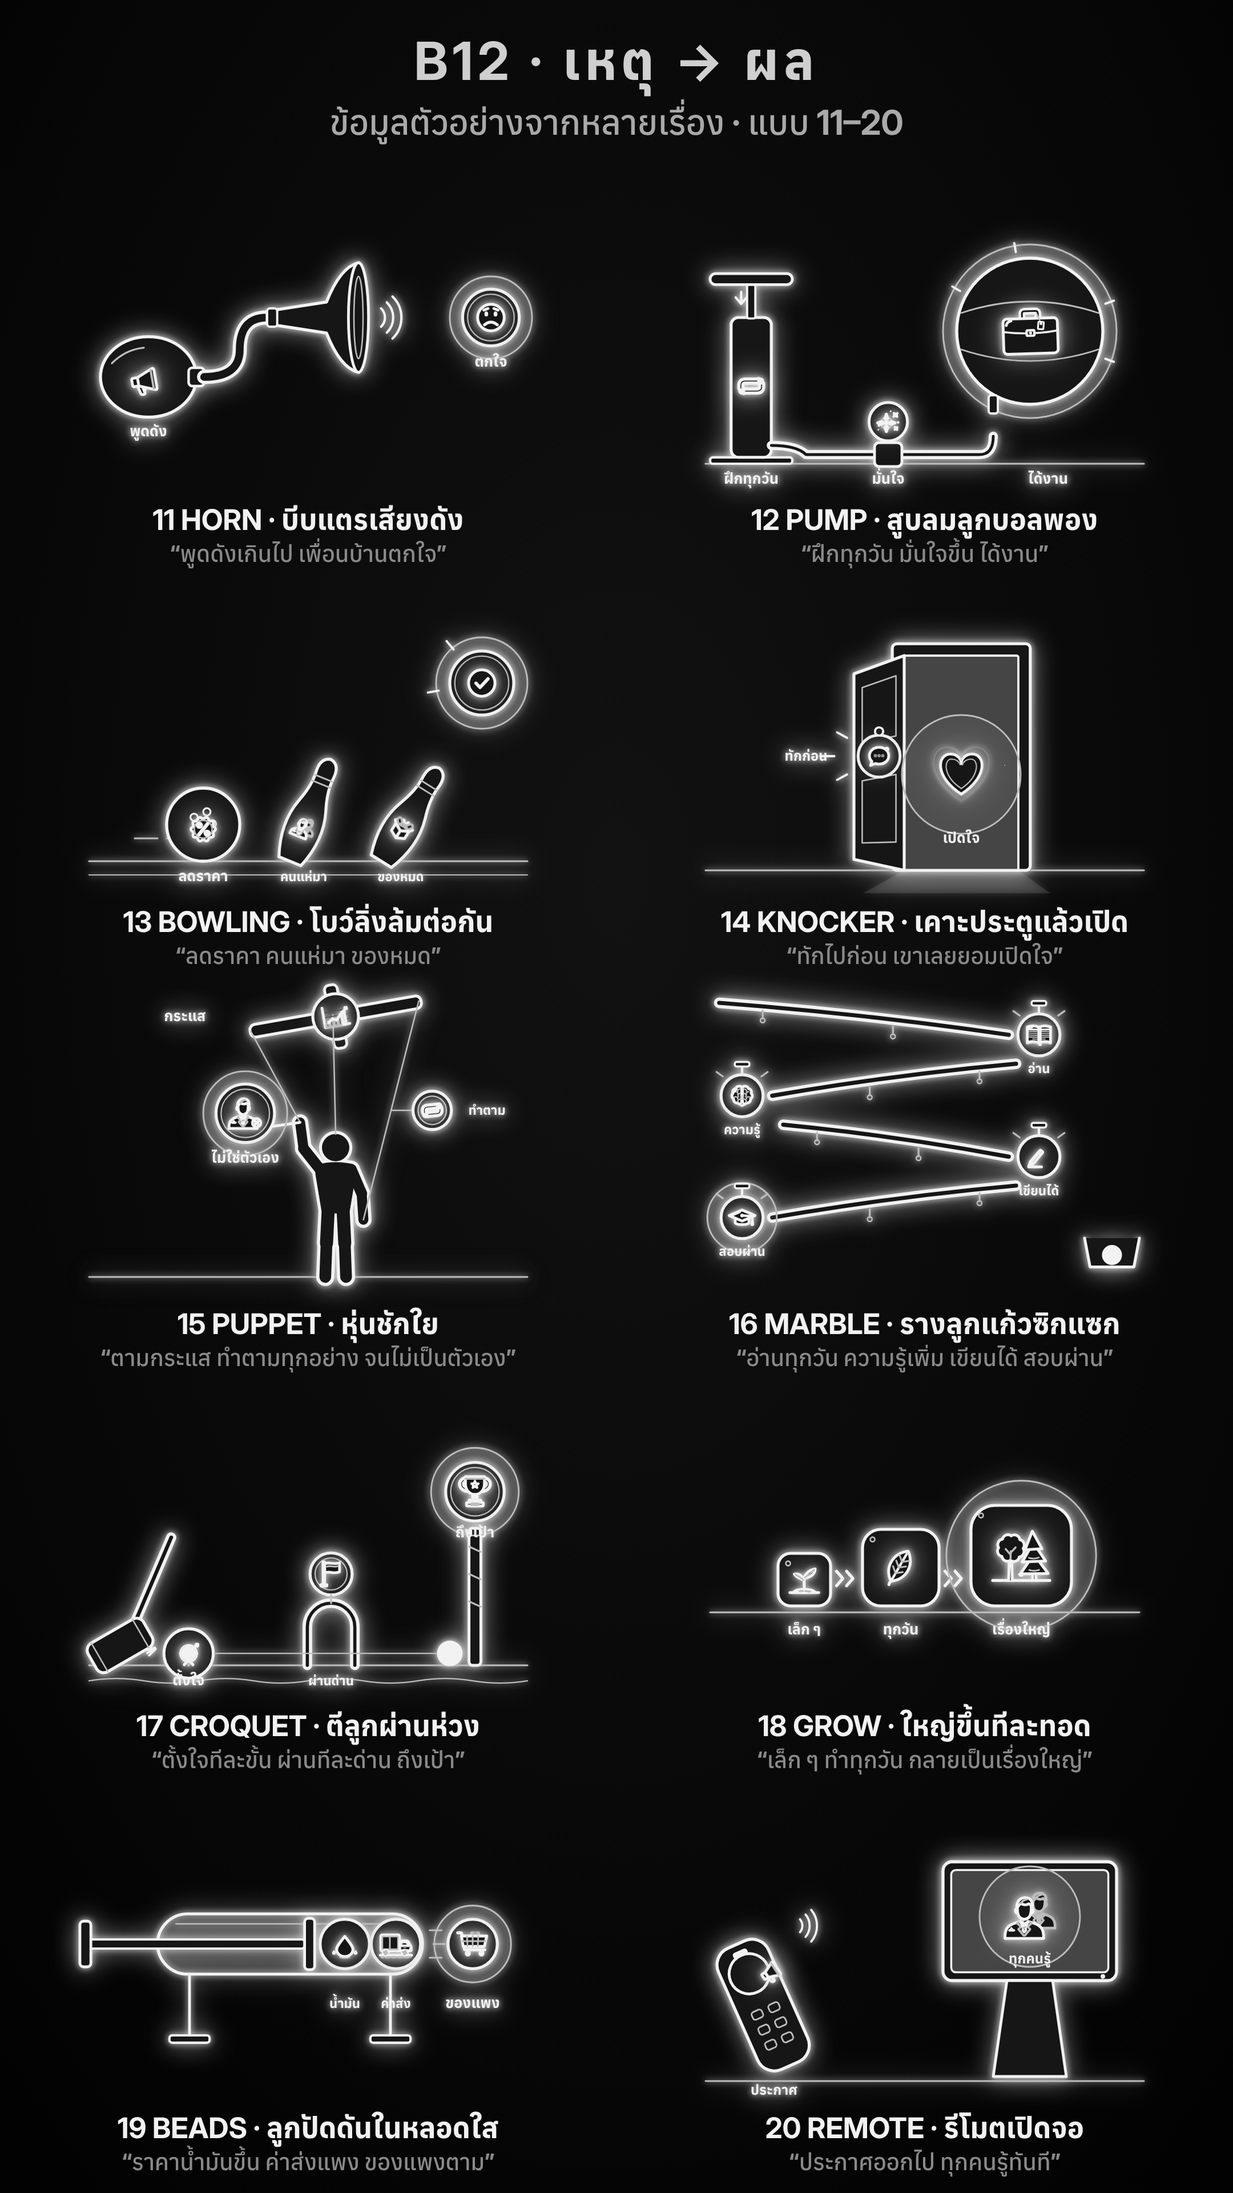
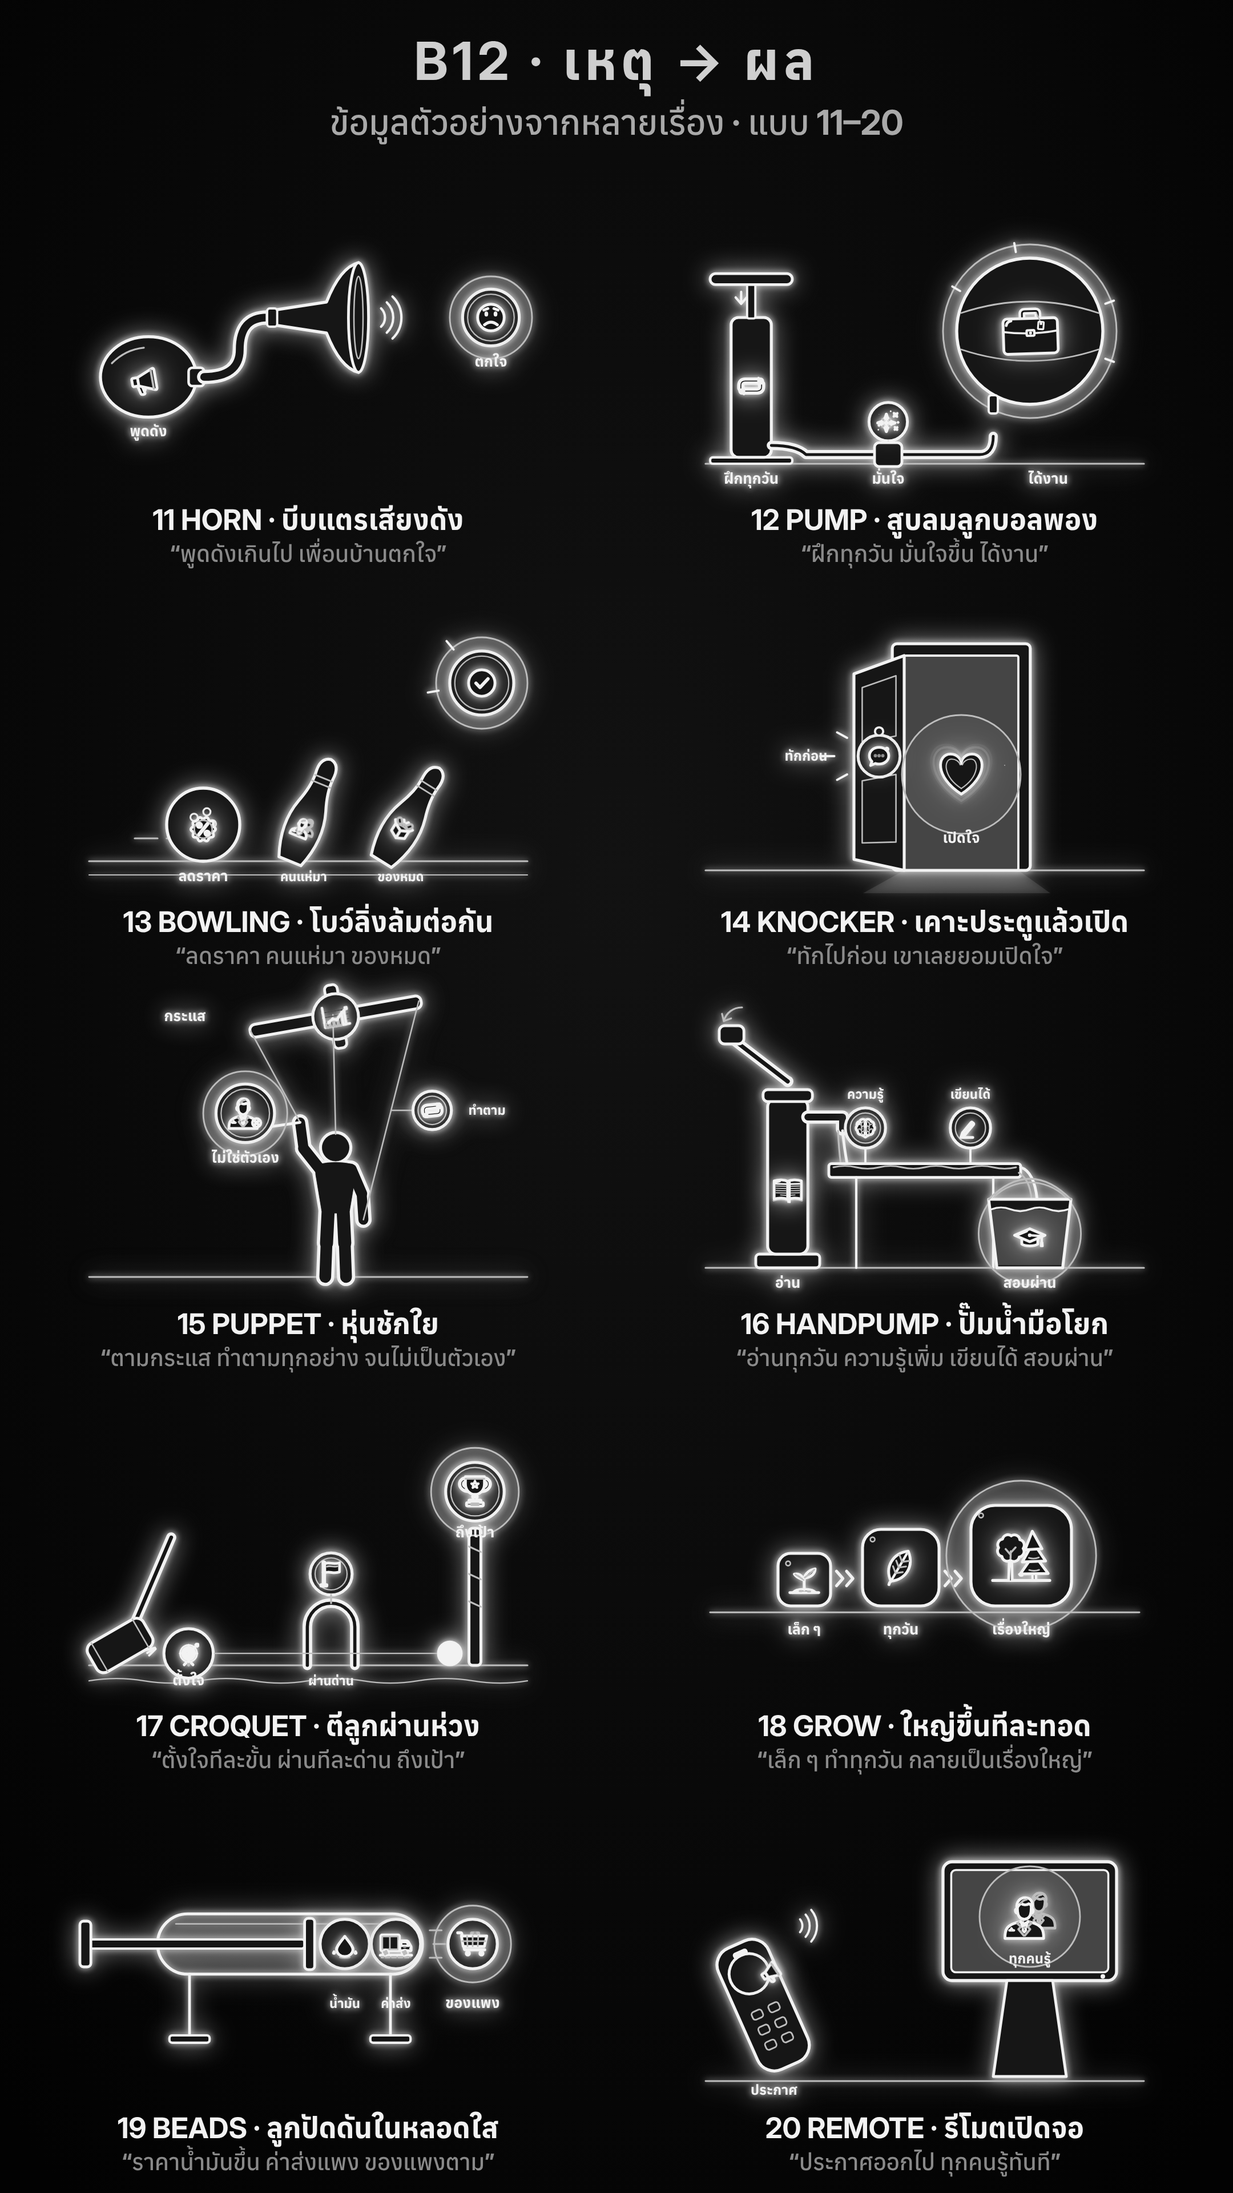
glow-line-motion: B12 design 16 = hand pump (user picked A); marble run and the options removed; stills A2/B2 + HANDOFF
Claude-Session: https://claude.ai/code/session_014abtgv8DZyaHiaAMtMie6j

Changed region(s): [[0.5583, 0.4375, 0.9306, 0.625]]

diff --git a/.claude/skills/glow-line-motion/examples/b12/b12.js b/.claude/skills/glow-line-motion/examples/b12/b12.js
@@ -349,16 +349,22 @@
       if (Q.F) { const ex = hand[0] - 120, ey = hand[1] - 20; p.line(hand[0], hand[1], ex + 50, ey + 30, W(3)); halo(p, ex, ey, 92); plate(p, c, Q.F, ex, ey, 64, ey + 108, { k: 6 }); }
     }); });
 
-  /* 16 ── MARBLE RUN: the marble rolls down rail after rail, ringing the plate at every turn, and lands in the cup */
-  variant('marble', 'รางลูกแก้วซิกแซก', (d, c) => { const Q = ch(d), n = Q.n, r = n > 3 ? 46 : 54, Y = spread(n, -230, 170);
-    art(c, p => { const D = Y.map((y, i) => [i % 2 ? -400 : 250, y]);
-      D.forEach(([x, y], i) => { const fromL = i % 2 === 0, x0 = fromL ? (i ? -310 : -450) : 200, x1 = fromL ? x - r - 20 : x + r + 20, y0 = y - 70; tube(p, `M ${x0} ${y0} Q ${(x0 + x1) / 2} ${y0 + 24} ${x1} ${y}`, 16);
-        [lerp(x0, x1, .15), lerp(x0, x1, .6)].forEach(sx => { const sy = lerp(y0, y, sx === lerp(x0, x1, .15) ? .12 : .62) + 8; p.line(sx, sy, sx, sy + 18, S(2)); p.circle(sx, sy + 22, 5, S(1.6)); }); });
-      D.forEach(([x, y], i) => { if (i === n - 1 && !Q.E) halo(p, x, y, r + 30); p.circle(x, y, r, F(3.4)); p.line(x, y - r, x, y - r - 20, W(2.6)); R(p, x - 16, y - r - 28, 32, 10, 4, F(2.2));
-        [-1, 1].forEach(sd => p.line(x + sd * (r - 4), y - r + 4, x + sd * (r + 10), y - r - 6, S(2)));
-        put(p, c, Q.K[i], x, y, r * 1.3, y + r + 38, { k: i, maxW: i % 2 ? 160 : 190, size: 28 }); });
-      p.path('M 350 215 L 362 278 L 458 278 L 470 215', F(3.2)); p.circle(410, 252, 20, SOLID());
-      effect(p, c, Q.E, 410, 105, 54, null); if (Q.E && Q.E.label && picOf(Q.E)) txt(atG(p, tu(.5)), Q.E.label, 410, 18, { maxW: 150, color: C.ink, weight: 700, size: 28 });
+  /* 16 ── HAND PUMP (user 2026-11-13 picked option A of the redesign; the marble run is gone): the handle (cause) is pumped, the water runs along the trough past each marker, and fills the bucket (effect) */
+  variant('handpump', 'ปั๊มน้ำมือโยก', (d, c) => { const Q = ch(d), fy = 280, px = -300;
+    art(c, p => { p.line(-480, fy, 480, fy, S(2));
+      R(p, px - 70, fy - 30, 140, 30, 8, F(3)); R(p, px - 44, -90, 88, fy - 30 + 90, 18, F(3.4)); R(p, px - 54, -110, 108, 26, 10, F(3));
+      tube(p, `M ${px + 44} -50 L ${px + 120} -50 L ${px + 120} -24`, 22); p.circle(px, -128, 10, F(2.4));
+      tube(p, `M ${px} -128 L ${px - 120} -220`, 16); R(p, px - 150, -250, 54, 40, 12, F(3)); p.path(`M ${px - 100} -290 a 40 40 0 0 0 -40 30`, S(2)); p.poly([[px - 144, -276], [px - 140, -260], [px - 124, -266]], S(2));
+      put(p, c, Q.C, px, 110, 70, fy + 44, { k: 0 });
+      p.path(`M ${px + 120} -20 Q ${px + 124} 20 ${px + 130} 52`, W(3)); p.path(`M ${px + 110} -20 Q ${px + 112} 20 ${px + 116} 52`, S(2));
+      R(p, px + 90, 52, 420, 30, 6, F(3)); p.path(`M ${px + 100} 60 q 25 -6 50 0 t 50 0 t 50 0 t 50 0 t 50 0 t 50 0 t 50 0 t 50 0`, S(1.8));
+      [px + 150, px + 450].forEach(x => p.line(x, 82, x, fy, W(2.6)));
+      const xs = spread(Q.M.length, px + 170, px + 400); Q.M.forEach((it, i) => { p.line(xs[i], 52, xs[i], 20, W(2.4)); plate(p, c, it, xs[i], -26, 44, -90, { k: 1 + i, maxW: 140, size: 28, wrap: 'up' }); });
+      p.path(`M ${px + 510} 60 Q ${px + 540} 70 ${px + 546} 130`, W(3)); p.path(`M ${px + 506} 72 Q ${px + 530} 86 ${px + 534} 130`, S(2));
+      const bx = 230; if (Q.F) halo(p, bx, 205, 112);
+      p.path(`M ${bx - 90} 130 L ${bx + 90} 130 L ${bx + 72} ${fy} L ${bx - 72} ${fy} Z`, F(3.4)); p.path(`M ${bx - 84} 152 L ${bx + 84} 152 L ${bx + 72} ${fy - 6} L ${bx - 72} ${fy - 6} Z`, { fill: LIT, sw: 0, stroke: 'none' });
+      p.path(`M ${bx - 84} 152 q 21 -8 42 0 t 42 0 t 42 0 t 42 0`, W(2)); p.path(`M ${bx - 90} 130 Q ${bx} 40 ${bx + 90} 130`, S(2));
+      put(p, c, Q.F, bx, 214, 70, fy + 44, { k: 6, maxW: 200 });
     }); });
 
   /* 17 ── CROQUET: the mallet (cause) strikes the ball, it rolls through every hoop (the links between) and knocks the post (effect) */
@@ -409,62 +415,6 @@
       if (Q.F) { halo(p, sx, sy - 10, 110); put(p, c, Q.F, sx, sy - 14, 120, sy + 92, { k: 6, maxW: 260, size: 30, wrap: null }); }
     }); });
 
-  /* ---------- design 16 redesign (user 2026-11-13 "16 Redesign ใหม่ ที่เหลือผ่าน" — marble run out): three options to pick from ---------- */
-  const ALT = []; const alt = (id, th, build) => ALT.push({ id, th, build });
-
-  /* A ── HAND PUMP: the handle (cause) is pumped, the water runs along the trough past each marker, and fills the bucket (effect) */
-  alt('handpump', 'ปั๊มน้ำมือโยก', (d, c) => { const Q = ch(d), fy = 280, px = -300;
-    art(c, p => { p.line(-480, fy, 480, fy, S(2));
-      R(p, px - 70, fy - 30, 140, 30, 8, F(3)); R(p, px - 44, -90, 88, fy - 30 + 90, 18, F(3.4)); R(p, px - 54, -110, 108, 26, 10, F(3));
-      tube(p, `M ${px + 44} -50 L ${px + 120} -50 L ${px + 120} -24`, 22); p.circle(px, -128, 10, F(2.4));
-      tube(p, `M ${px} -128 L ${px - 120} -220`, 16); R(p, px - 150, -250, 54, 40, 12, F(3)); p.path(`M ${px - 100} -290 a 40 40 0 0 0 -40 30`, S(2)); p.poly([[px - 144, -276], [px - 140, -260], [px - 124, -266]], S(2));
-      put(p, c, Q.C, px, 110, 70, fy + 44, { k: 0 });
-      p.path(`M ${px + 120} -20 Q ${px + 124} 20 ${px + 130} 52`, W(3)); p.path(`M ${px + 110} -20 Q ${px + 112} 20 ${px + 116} 52`, S(2));
-      R(p, px + 90, 52, 420, 30, 6, F(3)); p.path(`M ${px + 100} 60 q 25 -6 50 0 t 50 0 t 50 0 t 50 0 t 50 0 t 50 0 t 50 0 t 50 0`, S(1.8));
-      [px + 150, px + 450].forEach(x => p.line(x, 82, x, fy, W(2.6)));
-      const xs = spread(Q.M.length, px + 170, px + 400); Q.M.forEach((it, i) => { p.line(xs[i], 52, xs[i], 20, W(2.4)); plate(p, c, it, xs[i], -26, 44, -90, { k: 1 + i, maxW: 140, size: 28, wrap: 'up' }); });
-      p.path(`M ${px + 510} 60 Q ${px + 540} 70 ${px + 546} 130`, W(3)); p.path(`M ${px + 506} 72 Q ${px + 530} 86 ${px + 534} 130`, S(2));
-      const bx = 230; if (Q.F) halo(p, bx, 205, 112);
-      p.path(`M ${bx - 90} 130 L ${bx + 90} 130 L ${bx + 72} ${fy} L ${bx - 72} ${fy} Z`, F(3.4)); p.path(`M ${bx - 84} 152 L ${bx + 84} 152 L ${bx + 72} ${fy - 6} L ${bx - 72} ${fy - 6} Z`, { fill: LIT, sw: 0, stroke: 'none' });
-      p.path(`M ${bx - 84} 152 q 21 -8 42 0 t 42 0 t 42 0 t 42 0`, W(2)); p.path(`M ${bx - 90} 130 Q ${bx} 40 ${bx + 90} 130`, S(2));
-      put(p, c, Q.F, bx, 214, 70, fy + 44, { k: 6, maxW: 200 });
-    }); });
-
-  /* B ── MUSIC BOX: the crank (cause) is turned, the notes rise out of the box one after another, and the last note becomes the effect */
-  alt('musicbox', 'กล่องดนตรีไขลาน', (d, c) => { const Q = ch(d), bx = -150, by = 170, w = 380, h = 160;
-    art(c, p => { p.line(-480, 300, 480, 300, S(1.8));
-      shape(p, [[bx - w / 2, by - h / 2], [bx + w / 2, by - h / 2], [bx + w / 2 + 40, by - h / 2 - 170], [bx - w / 2 + 40, by - h / 2 - 170]], F(3.2));
-      shape(p, [[bx - w / 2 + 26, by - h / 2 - 14], [bx + w / 2 - 20, by - h / 2 - 14], [bx + w / 2 + 14, by - h / 2 - 150], [bx - w / 2 + 58, by - h / 2 - 150]], S(1.6));
-      R(p, bx - w / 2, by - h / 2, w, h, 12, F(3.4)); R(p, bx - w / 2 + 16, by - h / 2 + 16, w - 32, h - 32, 8, S(1.6)); R(p, bx - 20, by - h / 2 + 4, 40, 12, 4, F(2));
-      [[-1, 0], [1, 0]].forEach(([sd]) => R(p, bx + sd * (w / 2 - 40) - 20, by + h / 2, 40, 300 - by - h / 2, 6, F(2.6)));
-      p.line(bx - w / 2, by, bx - w / 2 - 50, by, W(4)); p.line(bx - w / 2 - 50, by, bx - w / 2 - 50, by - 70, W(4));
-      p.circle(bx - w / 2 - 50, by - 110, 48, F(3.4)); put(p, c, Q.C, bx - w / 2 - 50, by - 110, 60, by + 136, { k: 0, lx: bx - w / 2 - 50 });
-      const note = (x, y, s2) => { p.ellipse(x, y, 16 * s2, 12 * s2, SOLID(1.6)); p.line(x + 15 * s2, y - 2, x + 15 * s2, y - 52 * s2, W(3)); p.path(`M ${x + 15 * s2} ${y - 52 * s2} q 18 6 20 26`, W(3)); };
-      note(bx + 60, by - 140, 1); note(bx + 150, by - 200, .8);
-      const P = Q.M.map((_, i) => [bx + 230 + i * 110, by - 150 - i * 90]);
-      p.path(`M ${bx + 40} ${by - h / 2 - 10} C ${bx + 120} -120, ${bx + 260} -60, 330 -190`, S(2));
-      Q.M.forEach((it, i) => { plate(p, c, it, P[i][0], P[i][1], 44, P[i][1] + 10, { k: 1 + i, maxW: 150, size: 28, lx: P[i][0] + 56, anchor: 'start', wrap: null }); });
-      if (Q.F) { halo(p, 360, -220, 100); p.circle(360, -220, 70, F(3.4)); note(290, -280, .7); note(420, -150, .6); put(p, c, Q.F, 360, -220, 88, -122, { k: 6 }); }
-    }); });
-
-  /* C ── MELTING ICE: the ice (cause) melts on the ledge, drop after drop falls (the links between) and fills the glass (effect) */
-  alt('ice', 'น้ำแข็งละลายหยด', (d, c) => { const Q = ch(d), lx = -120, ly = -150, gx = 220;
-    art(c, p => { p.line(-480, 300, 480, 300, S(1.8));
-      R(p, -480, ly, 440, 26, 6, F(3)); [-440, -110].forEach(x => { p.path(`M ${x} ${ly + 26} L ${x} ${ly + 90} L ${x + 50} ${ly + 26}`, W(2.6)); });
-      const ix = lx - 150; p.path(`M ${ix - 70} ${ly} L ${ix - 64} ${ly - 120} Q ${ix - 62} ${ly - 134} ${ix - 48} ${ly - 134} L ${ix + 54} ${ly - 128} Q ${ix + 68} ${ly - 126} ${ix + 68} ${ly - 112} L ${ix + 74} ${ly} Z`, F(3.4));
-      p.line(ix - 40, ly - 110, ix - 10, ly - 112, S(1.6)); p.line(ix + 40, ly - 118, ix + 54, ly - 100, S(1.6)); [[-70, -40], [74, -50]].forEach(([a, b]) => p.path(`M ${ix + a} ${ly + b} q ${a < 0 ? -8 : 8} 14 0 26`, S(2))); put(p, c, Q.C, ix, ly - 62, 72, null, { k: 0 }); if (Q.C && Q.C.label && picOf(Q.C)) txt(atG(p, tu(.2)), Q.C.label, ix, ly + 66, { maxW: 200, color: C.ink, weight: 700, size: 30 });
-      p.path(`M ${ix - 80} ${ly} q 40 10 80 4 q 40 -4 80 2 L -40 ${ly} `, W(2.2)); p.path(`M -40 ${ly + 2} Q -20 ${ly + 6} -12 ${ly + 22}`, W(2.4));
-      const drop = (x, y, r) => p.path(`M ${x} ${y - r * 1.6} Q ${x + r} ${y - r * .2} ${x + r} ${y + r * .3} A ${r} ${r} 0 0 1 ${x - r} ${y + r * .3} Q ${x - r} ${y - r * .2} ${x} ${y - r * 1.6} Z`, F(3));
-      const P = Q.M.map((_, i) => { const u = (i + 1) / (Q.M.length + 1); return [lerp(-20, gx - 70, u) + (Q.M.length > 1 ? (i ? 30 : -30) : 0), lerp(ly + 70, -10, u) + (i % 2 ? 40 : 0)]; });
-      p.path(`M -12 ${ly + 24} Q 60 ${ly + 20} ${gx - 10} 40`, S(1.6));
-      Q.M.forEach((it, i) => { drop(P[i][0], P[i][1], 38); put(p, c, it, P[i][0], P[i][1] + 6, 42, P[i][1] + 70, { k: 1 + i, maxW: 130, size: 26 }); });
-      if (!Q.M.length) drop(60, -40, 22);
-      if (Q.F) halo(p, gx, 190, 130);
-      p.path(`M ${gx - 100} 60 L ${gx - 80} 296 L ${gx + 80} 296 L ${gx + 100} 60`, F(3.4)); p.path(`M ${gx - 90} 140 L ${gx - 82} 288 L ${gx + 82} 288 L ${gx + 90} 140 Z`, { fill: LIT, sw: 0, stroke: 'none' });
-      p.path(`M ${gx - 90} 140 q 22 -8 45 0 t 45 0 t 45 0 t 45 0`, W(2)); [[gx - 40, 100, 14], [gx + 20, 80, 9]].forEach(([x, y, r]) => p.circle(x, y, r, S(1.6)));
-      put(p, c, Q.F, gx, 214, 84, null, { k: 6 }); if (Q.F && Q.F.label && picOf(Q.F)) txt(atG(p, tu(.5)), Q.F.label, gx + 170, 220, { maxW: 140, color: C.ink, weight: 700, size: 30 });
-    }); });
-
   /* ---------- sample data (A: sentences from unrelated topics, 1–4 links · B: stress) ---------- */
   const I = (icon, label) => label ? { icon, label } : { icon };
   const SAMPLES = [
@@ -513,5 +463,5 @@
   ];
 
   G.cats = G.cats || {};
-  G.cats.B12 = { variants: V, SAMPLES, STRESS, ALT, drawAlt: (k, d, c) => { setZ(c); CUR = ALT[k].id; ALT[k].build(d, c); }, draw: (i, d, c) => { setZ(c); CUR = V[i].id; V[i].build(d, c); }, CLAMPS, timing: c => (setZ(c), Object.assign({}, Z)) };
+  G.cats.B12 = { variants: V, SAMPLES, STRESS, draw: (i, d, c) => { setZ(c); CUR = V[i].id; V[i].build(d, c); }, CLAMPS, timing: c => (setZ(c), Object.assign({}, Z)) };
 })();

diff --git a/.claude/skills/glow-line-motion/HANDOFF.md b/.claude/skills/glow-line-motion/HANDOFF.md
@@ -6,7 +6,7 @@ branch นี้รวม `ccr-63225ff9-63jrph` ไว้แล้ว). Default 
 (เช็กง่าย ๆ: มี `references/approved/b11/` ไหม). คุยกับผู้ใช้เป็นภาษาไทย สุภาพ ลงท้าย "ครับ". ผู้ใช้สั่งงานจากมือถือ — ห้ามขอให้เขารันคำสั่งเอง,
 ส่งไฟล์ผ่าน SendUserFile. **ห้ามแตะโฟลเดอร์ `cutpack/`** (อ่านได้ แก้ไม่ได้ — คนละงาน คนละแชท).
 
-## ▶ เริ่มแชทใหม่ตรงนี้ (2026-11-13) — งานปัจจุบัน: **B12 "เหตุ → ผล"** ภาพนิ่งรอบ 3 ผ่าน 19 แบบ · แบบ 16 รอเลือก A/B/C (ดูหัวข้อ B12 ด้านล่าง)
+## ▶ เริ่มแชทใหม่ตรงนี้ (2026-11-13) — งานปัจจุบัน: **B12 "เหตุ → ผล"** ภาพนิ่ง 20 แบบครบ (16 = ปั๊มน้ำมือโยก) — รอผู้ใช้สั่งทำท่าขยับ (ดูหัวข้อ B12 ด้านล่าง)
 
 **สถานะ:** B01–B11 **ผ่านครบ** (วิดีโอใน `references/approved/b01…b11/`; B08 24 แบบ, B10 21 แบบ, B11 20 แบบ).
 **งานล่าสุดอยู่ที่ branch `ccr-cb5e3da7-rhg0y1`** (push แล้ว, ยังไม่ merge / ยังไม่เปิด PR — เปิดเมื่อผู้ใช้สั่งเท่านั้น).
@@ -36,11 +36,11 @@ branch นี้รวม `ccr-63225ff9-63jrph` ไว้แล้ว). Default 
   helper: `put()` `plate()` `effect()` `spread()` `burst()` `tick()` (+ `card tile arrowP glowP` จากรอบ 2).
   20 แบบ: 01 billiards บิลเลียดชนต่อ · 02 lamp สวิตช์ผนังเปิดโคมไฟ · 03 machine เครื่องใส่เหตุออกผล · 04 rope สะบัดเชือก · 05 striker ค้อนตีระฆัง · 06 fan พัดลมเป่ากังหันธง ·
   07 blocks บล็อกดันตกกล่อง · 08 boxes กล่องซ้อนลูกบอลหล่น · 09 battery เสียบสายชาร์จแบตเต็ม · 10 bottle เขย่าขวดฝาเด้ง · 11 horn บีบแตร · 12 pump สูบลมลูกบอลพอง ·
-  13 bowling โบว์ลิ่ง · 14 knocker เคาะประตูแล้วเปิด · 15 puppet หุ่นชักใย · 16 marble รางลูกแก้วซิกแซก · 17 croquet ตีลูกผ่านห่วง · 18 grow ใหญ่ขึ้นทีละทอด · 19 beads ลูกปัดดันในหลอด ·
+  13 bowling โบว์ลิ่ง · 14 knocker เคาะประตูแล้วเปิด · 15 puppet หุ่นชักใย · 16 handpump ปั๊มน้ำมือโยก (เดิม marble) · 17 croquet ตีลูกผ่านห่วง · 18 grow ใหญ่ขึ้นทีละทอด · 19 beads ลูกปัดดันในหลอด ·
   20 remote รีโมตเปิดจอ. SAMPLES/STRESS มี 1–4 ทอด. ยังไม่มีท่าขยับ.
 - ผู้ใช้: **"16 Redesign ใหม่ ที่เหลือผ่าน"** (รางลูกแก้วออก) → ตัวเลือก 3 ทาง `GL.cats.B12.ALT` + `drawAlt(k, d, c)`, แผ่น `examples/b12/sheet-alt.html`
   (แถวละตัวเลือก × ตัวอย่าง 4 ทอด / ป้ายยาว), ภาพ `motion/glow-line-cats/b12/b12-redesign-16.png`: A handpump ปั๊มน้ำมือโยก (น้ำไหลตามรางผ่านหมุด ลงถัง) ·
-  B musicbox กล่องดนตรีไขลาน (หมุนข้อเหวี่ยง โน้ตลอยออกทีละตัว) · C ice น้ำแข็งละลายหยด (หยดทีละหยดลงแก้วจนเต็ม). **รอผู้ใช้เลือก** → ย้ายเข้า V แทน marble, ลบ ALT + แผ่น alt.
+  B musicbox กล่องดนตรีไขลาน (หมุนข้อเหวี่ยง โน้ตลอยออกทีละตัว) · C ice น้ำแข็งละลายหยด (หยดทีละหยดลงแก้วจนเต็ม). ผู้ใช้ **"A"** → แบบ 16 = `handpump` ปั๊มน้ำมือโยก (marble ลบ, ALT + แผ่น alt ลบแล้ว, ภาพตัวเลือกเก็บที่ `b12-redesign-16.png`). **ภาพนิ่ง 20 แบบครบ — รอผู้ใช้สั่งทำท่าขยับ.**
 
 ## สิ่งที่ผู้ใช้สอนในงานหมวด B06–B08 (อ่านก่อนออกแบบหมวดใหม่ — สำคัญที่สุด)
 
